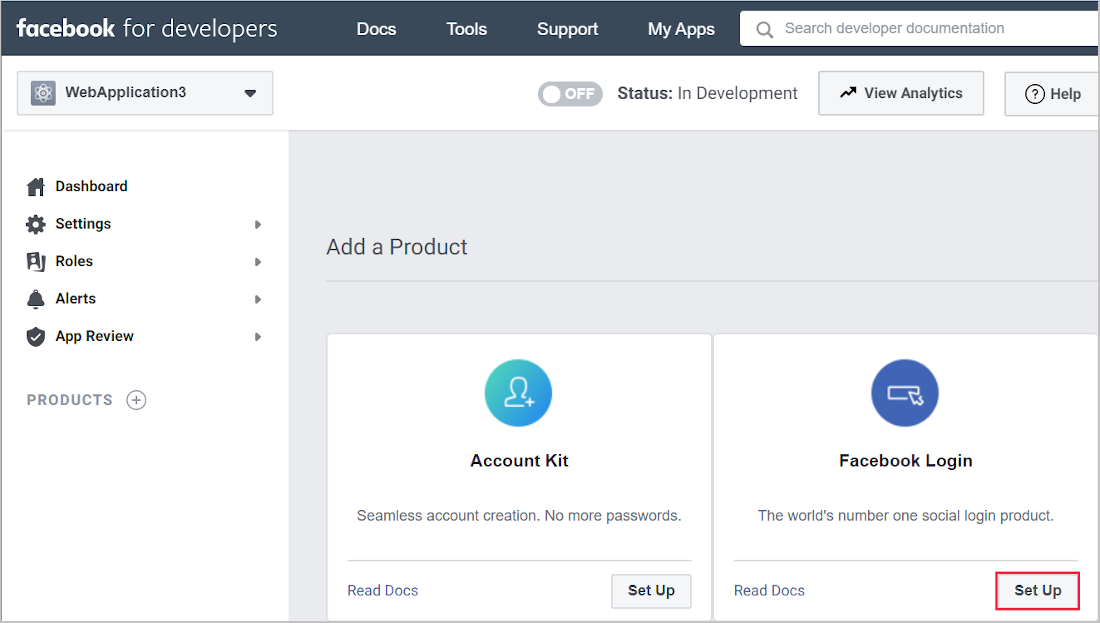
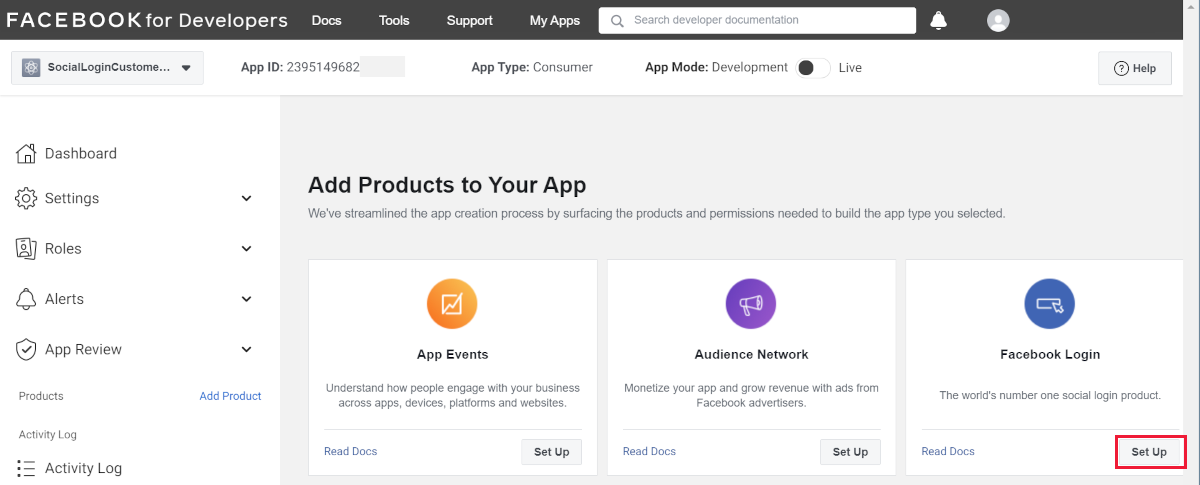
.NET 6.0 Update for Social Login Tutorials (#24242)
* Updated instructions and code snippets for social authentication in .net 6 (ms, facebook, google and twitter)

* Update microsoft-logins.md

Moniker issue is blocking the build, but a little strange since it looks OK to me.  Testing with a more explicit > 3.0 and < 6.0 range.

* Update microsoft-logins.md

Reverted back to original moniker that received a build warning.

* Update facebook-logins.md

Removed specific mention of 3.0

* Update google-logins.md

Removed specific mention of 3.0

* Update microsoft-logins.md

Removed specific mention of 3.0

* Update twitter-logins.md

Removed specific mention of 3.0

* .NET 6 update Social Login Tutorials

* Edit pass

diff --git a/aspnetcore/security/authentication/social/social-code/6.x/ProgramMS.cs b/aspnetcore/security/authentication/social/social-code/6.x/ProgramMS.cs
@@ -1,0 +1,9 @@
+var builder = WebApplication.CreateBuilder(args);
+var services = builder.Services;
+var configuration = builder.Configuration;
+
+services.AddAuthentication().AddMicrosoftAccount(microsoftOptions =>
+    {
+        microsoftOptions.ClientId = configuration["Authentication:Microsoft:ClientId"];
+        microsoftOptions.ClientSecret = configuration["Authentication:Microsoft:ClientSecret"];
+    });

diff --git a/aspnetcore/security/authentication/social/social-code/6.x/ProgramTwitter.cs b/aspnetcore/security/authentication/social/social-code/6.x/ProgramTwitter.cs
@@ -1,0 +1,9 @@
+var builder = WebApplication.CreateBuilder(args);
+var services = builder.Services;
+var configuration = builder.Configuration;
+
+services.AddAuthentication().AddTwitter(twitterOptions =>
+    {
+        twitterOptions.ConsumerKey = configuration["Authentication:Twitter:ConsumerAPIKey"];
+        twitterOptions.ConsumerSecret = configuration["Authentication:Twitter:ConsumerSecret"];
+    });

diff --git a/aspnetcore/security/authentication/social/social-code/6.x/ProgramFacebook.cs b/aspnetcore/security/authentication/social/social-code/6.x/ProgramFacebook.cs
@@ -1,0 +1,9 @@
+var builder = WebApplication.CreateBuilder(args);
+var services = builder.Services;
+var configuration = builder.Configuration;
+
+services.AddAuthentication().AddFacebook(facebookOptions =>
+    {
+        facebookOptions.AppId = configuration["Authentication:Facebook:AppId"];
+        facebookOptions.AppSecret = configuration["Authentication:Facebook:AppSecret"];
+    });

diff --git a/aspnetcore/security/authentication/social/social-code/6.x/ProgramGoogle.cs b/aspnetcore/security/authentication/social/social-code/6.x/ProgramGoogle.cs
@@ -1,0 +1,9 @@
+var builder = WebApplication.CreateBuilder(args);
+var services = builder.Services;
+var configuration = builder.Configuration;
+
+services.AddAuthentication().AddGoogle(googleOptions =>
+    {
+        googleOptions.ClientId = configuration["Authentication:Google:ClientId"];
+        googleOptions.ClientSecret = configuration["Authentication:Google:ClientSecret"];
+    });

diff --git a/aspnetcore/security/authentication/social/twitter-logins.md b/aspnetcore/security/authentication/social/twitter-logins.md
@@ -4,7 +4,7 @@ author: rick-anderson
 description: This tutorial demonstrates the integration of Twitter account user authentication into an existing ASP.NET Core app.
 ms.author: riande
 ms.custom: mvc
-ms.date: 03/19/2020
+ms.date: 12/08/2021
 monikerRange: '>= aspnetcore-3.0'
 no-loc: [Home, Privacy, Kestrel, appsettings.json, "ASP.NET Core Identity", cookie, Cookie, Blazor, "Blazor Server", "Blazor WebAssembly", "Identity", "Let's Encrypt", Razor, SignalR]
 uid: security/authentication/twitter-logins
@@ -13,26 +13,30 @@ uid: security/authentication/twitter-logins
 
 By [Valeriy Novytskyy](https://github.com/01binary) and [Rick Anderson](https://twitter.com/RickAndMSFT)
 
-This sample shows how to enable users to [sign in with their Twitter account](https://dev.twitter.com/web/sign-in/desktop-browser) using a sample ASP.NET Core 3.0 project created on the [previous page](xref:security/authentication/social/index).
+This sample shows how to enable users to [sign in with their Twitter account](https://dev.twitter.com/web/sign-in/desktop-browser) using a sample ASP.NET Core project created on the [previous page](xref:security/authentication/social/index).
 
 ## Create the app in Twitter
 
-* Add the [Microsoft.AspNetCore.Authentication.Twitter](https://www.nuget.org/packages/Microsoft.AspNetCore.Authentication.Twitter/3.0.0) NuGet package to the project.
+* Add the [Microsoft.AspNetCore.Authentication.Twitter](https://www.nuget.org/packages/Microsoft.AspNetCore.Authentication.Twitter) NuGet package to the project.
 
-* Navigate to [https://apps.twitter.com/](https://apps.twitter.com/) and sign in. If you don't already have a Twitter account, use the **[Sign up now](https://twitter.com/signup)** link to create one.
+* Navigate to [twitter developer portal Dashboard](https://developer.twitter.com/en/portal/dashboard) and sign in. If you don't already have a Twitter account, use the **[Sign up now](https://twitter.com/signup)** link to create one.
 
-* Select **Create an app**. Fill out the **App name**, **Application description** and public **Website** URI (this can be temporary until you register the domain name):
+* If you don't have a project, create one.
 
-* Check the box next to **Enable Sign in with Twitter**
+* Select **+ Add app**. Fill out the **App name** then record the generated API Key, API Key Secret and Bearer Token. These will be needed
+later.
 
-* Microsoft.AspNetCore.Identity requires users to have an email address by default. Go to the **Permissions** tab, click the **Edit** button and check the box next to **Request email address from users**.
+* In the **App Settings** page, select **Edit** in the **Authentication settings** section, then:
+  * Enable 3-legged OAuth
+  * Request email address from users
+  * Fill out the required fields and select **Save**
 
-* Enter your development URI with `/signin-twitter` appended into the **Callback URLs** field (for example: `https://webapp128.azurewebsites.net/signin-twitter`). The Twitter authentication scheme configured later in this sample will automatically handle requests at `/signin-twitter` route to implement the OAuth flow.
+  > [!NOTE]
+  > Microsoft.AspNetCore.Identity requires users to have an email address by default. For Callback URLs during development, use `https://localhost:{PORT}/signin-twitter`, where the `{PORT}` placeholder is the app's port.
 
   > [!NOTE]
   > The URI segment `/signin-twitter` is set as the default callback of the Twitter authentication provider. You can change the default callback URI while configuring the Twitter authentication middleware via the inherited [RemoteAuthenticationOptions.CallbackPath](/dotnet/api/microsoft.aspnetcore.authentication.remoteauthenticationoptions.callbackpath) property of the [TwitterOptions](/dotnet/api/microsoft.aspnetcore.authentication.twitter.twitteroptions) class.
 
-* Fill out the rest of the form and select **Create**. New application details are displayed:
 
 ## Store the Twitter consumer API key and secret
 
@@ -52,21 +56,32 @@ These tokens can be found on the **Keys and Access Tokens** tab after creating a
 
 ## Configure Twitter Authentication
 
-Add the Twitter service in the `ConfigureServices` method in *Startup.cs* file:
+::: moniker range="< aspnetcore-6.0"
+
+Add the Authentication service to the `Startup.ConfigureServices`:
 
 [!code-csharp[](~/security/authentication/social/social-code/3.x/StartupTwitter3x.cs?name=snippet&highlight=10-15)]
+
+::: moniker-end
+
+::: moniker range=">= aspnetcore-6.0"
+
+[!code-csharp[](~/security/authentication/social/social-code/6.x/ProgramTwitter.cs)]
+
+::: moniker-end
+
 
 [!INCLUDE [default settings configuration](includes/default-settings.md)]
 
 [!INCLUDE[](includes/chain-auth-providers.md)]
 
-See the [TwitterOptions](/dotnet/api/microsoft.aspnetcore.builder.twitteroptions) API reference for more information on configuration options supported by Twitter authentication. This can be used to request different information about the user.
+For more information on configuration options supported by Twitter authentication, see the [TwitterOptions](/dotnet/api/microsoft.aspnetcore.builder.twitteroptions) API reference. This can be used to request different information about the user.
 
 ## Sign in with Twitter
 
 Run the app and select **Log in**. An option to sign in with Twitter appears:
 
-Clicking on **Twitter** redirects to Twitter for authentication:
+Selecting **Twitter** redirects to Twitter for authentication:
 
 After entering your Twitter credentials, you are redirected back to the web site where you can set your email.
 
@@ -82,7 +97,7 @@ Rather in the twitter setup, you can provide an External sign-in homepage. The e
 
 ## Troubleshooting
 
-* **ASP.NET Core 2.x only:** If Identity isn't configured by calling `services.AddIdentity` in `ConfigureServices`, attempting to authenticate will result in *ArgumentException: The 'SignInScheme' option must be provided*. The project template used in this sample ensures that this is done.
+* **ASP.NET Core 2.x only:** If Identity isn't configured by calling `services.AddIdentity` in `ConfigureServices`, attempting to authenticate will result in *ArgumentException: The 'SignInScheme' option must be provided*. The project template used in this sample ensures Identity is configured.
 * If the site database has not been created by applying the initial migration, you will get *A database operation failed while processing the request* error. Tap **Apply Migrations** to create the database and refresh to continue past the error.
 
 ## Next steps

diff --git a/aspnetcore/security/authentication/social/facebook-logins.md b/aspnetcore/security/authentication/social/facebook-logins.md
@@ -4,7 +4,7 @@ author: rick-anderson
 description: Tutorial with code examples demonstrating the integration of Facebook account user authentication into an existing ASP.NET Core app.
 ms.author: riande
 ms.custom: "seoapril2019, mvc, seodec18"
-ms.date: 03/19/2020
+ms.date: 12/08/2021
 monikerRange: '>= aspnetcore-3.0'
 no-loc: [Home, Privacy, Kestrel, appsettings.json, "ASP.NET Core Identity", cookie, Cookie, Blazor, "Blazor Server", "Blazor WebAssembly", "Identity", "Let's Encrypt", Razor, SignalR]
 uid: security/authentication/facebook-logins
@@ -17,7 +17,7 @@ By [Valeriy Novytskyy](https://github.com/01binary) and [Rick Anderson](https://
 <!-- per @rick-anderson and scott addie, don't update images. Remove images and point the customer to the FB set up page. FB needs to maintain  instructions to get key and secret.
 -->
 
-This tutorial with code examples shows how to enable your users to sign in with their Facebook account using a sample ASP.NET Core 3.0 project created on the [previous page](xref:security/authentication/social/index). We start by creating a Facebook App ID by following the [official steps](https://developers.facebook.com).
+This tutorial with code examples shows how to enable your users to sign in with their Facebook account using a sample ASP.NET Core project created on the [previous page](xref:security/authentication/social/index). We start by creating a Facebook App ID by following the [official steps](https://developers.facebook.com).
 
 ## Create the app in Facebook
 
@@ -25,15 +25,16 @@ This tutorial with code examples shows how to enable your users to sign in with 
 
 * Navigate to the [Facebook Developers app](https://developers.facebook.com/apps/) page and sign in. If you don't already have a Facebook account, use the **Sign up for Facebook** link on the login page to create one.  Once you have a Facebook account, follow the instructions to register as a Facebook Developer.
 
-* From the **My Apps** menu select **Create App** to create a new App ID.
-
+* From the **My Apps** menu select **Create App**. The **Create an app** form appears.
    ![Facebook for developers portal open in Microsoft Edge](index/_static/FBMyApps.png)
 
-* Fill out the form and tap the **Create App ID** button.
+* Select an app type that best fits your project. For this project, select **Consumer**, and then **Next**. A new App ID is created.
+
+* Fill out the form and tap the **Create App** button.
 
   ![Create a New App ID form](index/_static/FBNewAppId.png)
 
-* On the new App card, select **Add a Product**.  On the **Facebook Login** card, click **Set Up** 
+* On the **Add Products to Your App** page, select **Set Up** on the **Facebook Login** card.
 
   ![Product Setup page](index/_static/FBProductSetup.png)
 
@@ -41,7 +42,7 @@ This tutorial with code examples shows how to enable your users to sign in with 
 
   ![Skip Quick Start](index/_static/FBSkipQuickStart.png)
 
-* You are presented with the **Client OAuth Settings** page:
+* The **Client OAuth Settings** page is presented:
 
   ![Client OAuth Settings page](index/_static/FBOAuthSetup.png)
 
@@ -50,13 +51,13 @@ This tutorial with code examples shows how to enable your users to sign in with 
 > [!NOTE]
 > The URI */signin-facebook* is set as the default callback of the Facebook authentication provider. You can change the default callback URI while configuring the Facebook authentication middleware via the inherited [RemoteAuthenticationOptions.CallbackPath](/dotnet/api/microsoft.aspnetcore.authentication.remoteauthenticationoptions.callbackpath) property of the [FacebookOptions](/dotnet/api/microsoft.aspnetcore.authentication.facebook.facebookoptions) class.
 
-* Click **Save Changes**.
+* Select **Save Changes**.
 
-* Click **Settings** > **Basic** link in the left navigation.
+* Select **Settings** > **Basic** link in the left navigation.
 
-  On this page, make a note of your `App ID` and your `App Secret`. You will add both into your ASP.NET Core application in the next section:
+* Make a note of your `App ID` and your `App Secret`. You will add both into your ASP.NET Core application in the next section:
 
-* When deploying the site you need to revisit the **Facebook Login** setup page and register a new public URI.
+* When deploying the site you need to revisit the **Facebook Login** setup page, and register a new public URI.
 
 ## Store the Facebook app ID and secret
 
@@ -74,7 +75,9 @@ Store sensitive settings such as the Facebook app ID and secret values with [Sec
 
 ## Configure Facebook Authentication
 
-Add the Facebook service in the `ConfigureServices` method in the *Startup.cs* file:
+::: moniker range="< aspnetcore-6.0"
+
+Add the Authentication service to the `Startup.ConfigureServices`:
 
 ```csharp
 services.AddAuthentication().AddFacebook(facebookOptions =>
@@ -83,6 +86,16 @@ services.AddAuthentication().AddFacebook(facebookOptions =>
     facebookOptions.AppSecret = Configuration["Authentication:Facebook:AppSecret"];
 });
 ```
+
+::: moniker-end
+
+::: moniker range=">= aspnetcore-6.0"
+
+Add the Authentication service to the `Program`:
+
+[!code-csharp[](~/security/authentication/social/social-code/6.x/ProgramFacebook.cs)]
+
+::: moniker-end
 
 [!INCLUDE [default settings configuration](includes/default-settings.md)]
 
@@ -106,7 +119,7 @@ The following code sets the `AccessDeniedPath` to `"/AccessDeniedPathInfo"`:
 
 [!code-csharp[](~/security/authentication/social/social-code/StartupAccessDeniedPath.cs?name=snippetFB)]
 
-We recommend the `AccessDeniedPath` page contain the following information:
+We recommend the `AccessDeniedPath` page contains the following information:
 
 *  Remote authentication was canceled.
 * This app requires authentication.
@@ -124,7 +137,7 @@ We recommend the `AccessDeniedPath` page contain the following information:
 
 [!INCLUDE[](includes/chain-auth-providers.md)]
 
-See the [FacebookOptions](/dotnet/api/microsoft.aspnetcore.builder.facebookoptions) API reference for more information on configuration options supported by Facebook authentication. Configuration options can be used to:
+ For more information on configuration options supported by Facebook authentication, see the [FacebookOptions](/dotnet/api/microsoft.aspnetcore.builder.facebookoptions) API reference. Configuration options can be used to:
 
 * Request different information about the user.
 * Add query string arguments to customize the login experience.

diff --git a/aspnetcore/security/authentication/social/google-logins.md b/aspnetcore/security/authentication/social/google-logins.md
@@ -12,17 +12,36 @@ uid: security/authentication/google-logins
 
 By [Valeriy Novytskyy](https://github.com/01binary) and [Rick Anderson](https://twitter.com/RickAndMSFT)
 
-This tutorial shows you how to enable users to sign in with their Google account using the ASP.NET Core 3.0 project created on the [previous page](xref:security/authentication/social/index).
+This tutorial shows you how to enable users to sign in with their Google account using the ASP.NET Core project created on the [previous page](xref:security/authentication/social/index).
 
 ## Create a Google API Console project and client ID
 
 * Add the [Microsoft.AspNetCore.Authentication.Google](https://www.nuget.org/packages/Microsoft.AspNetCore.Authentication.Google) NuGet package to the app.
+
 * Follow the guidance in [Integrating Google Sign-In into your web app](https://developers.google.com/identity/sign-in/web/sign-in) (Google documentation).
-* In the **Credentials** page of the [Google console](https://console.developers.google.com/apis/credentials), select **CREATE CREDENTIALS** > **OAuth client ID**.
-* In the **Application type** dialog, select **Web application**. Provide a **Name** for the app.
+
+* Go to [Google API & Services](https://console.cloud.google.com/apis).
+
+* A **Project** must exist first, you may have to create one. Just a name is required. Once a project is selected, you will enter the **Dashboard**.
+
+* In the **Oauth consent screen** of the **Dashboard**: 
+  * Select **User Type - External** and **CREATE**.
+  * In the **App information** dialog, Provide an **app name** for the app, **user support email**, and **developer contact information**.
+  * Step through the **Scopes** step.
+  * Step through the **Test users** step.
+  * Review the **OAuth consent screen** and go back to the app **Dashboard**.
+
+
+* In the **Credentials** tab of the application Dashboard, select **CREATE CREDENTIALS** > **OAuth client ID**.
+
+* Select **Application type** > **Web application**, choose a **name**.
+
 * In the **Authorized redirect URIs** section, select **ADD URI** to set the redirect URI. Example redirect URI: `https://localhost:{PORT}/signin-google`, where the `{PORT}` placeholder is the app's port.
+
 * Select the **CREATE** button.
+
 * Save the **Client ID** and **Client Secret** for use in the app's configuration.
+
 * When deploying the site, either:
   * Update the app's redirect URI in the **Google Console** to the app's deployed redirect URI.
   * Create a new Google API registration in the **Google Console** for the production app with its production redirect URI.
@@ -45,23 +64,35 @@ You can manage your API credentials and usage in the [API Console](https://conso
 
 ## Configure Google authentication
 
-Add the Google service to `Startup.ConfigureServices`:
+::: moniker range="< aspnetcore-6.0"
+
+Add the Authentication service to the `Startup.ConfigureServices`:
 
 [!code-csharp[](~/security/authentication/social/social-code/3.x/StartupGoogle3x.cs?highlight=11-19)]
+
+::: moniker-end
+
+::: moniker range=">= aspnetcore-6.0"
+
+Add the Authentication service to the `Program`:
+
+[!code-csharp[](~/security/authentication/social/social-code/6.x/ProgramGoogle.cs)]
+
+::: moniker-end
 
 [!INCLUDE [default settings configuration](includes/default-settings2-2.md)]
 
 ## Sign in with Google
 
-* Run the app and click **Log in**. An option to sign in with Google appears.
-* Click the **Google** button, which redirects to Google for authentication.
+* Run the app and select **Log in**. An option to sign in with Google appears.
+* Select the **Google** button, which redirects to Google for authentication.
 * After entering your Google credentials, you are redirected back to the web site.
 
 [!INCLUDE[Forward request information when behind a proxy or load balancer section](includes/forwarded-headers-middleware.md)]
 
 [!INCLUDE[](includes/chain-auth-providers.md)]
 
-See the <xref:Microsoft.AspNetCore.Authentication.Google.GoogleOptions> API reference for more information on configuration options supported by Google authentication. This can be used to request different information about the user.
+For more information on configuration options supported by Google authentication, see the <xref:Microsoft.AspNetCore.Authentication.Google.GoogleOptions> API reference . This can be used to request different information about the user.
 
 ## Change the default callback URI
 
@@ -70,7 +101,7 @@ The URI segment `/signin-google` is set as the default callback of the Google au
 ## Troubleshooting
 
 * If the sign-in doesn't work and you aren't getting any errors, switch to development mode to make the issue easier to debug.
-* If Identity isn't configured by calling `services.AddIdentity` in `ConfigureServices`, attempting to authenticate results in *ArgumentException: The 'SignInScheme' option must be provided*. The project template used in this tutorial ensures that this is done.
+* If Identity isn't configured by calling `services.AddIdentity` in `ConfigureServices`, attempting to authenticate results in *ArgumentException: The 'SignInScheme' option must be provided*. The project template used in this tutorial ensures Identity is configured.
 * If the site database has not been created by applying the initial migration, you get *A database operation failed while processing the request* error. Select **Apply Migrations** to create the database, and refresh the page to continue past the error.
 
 ## Next steps

diff --git a/aspnetcore/security/authentication/social/microsoft-logins.md b/aspnetcore/security/authentication/social/microsoft-logins.md
@@ -4,7 +4,7 @@ author: rick-anderson
 description: This sample demonstrates the integration of Microsoft account user authentication into an existing ASP.NET Core app.
 ms.author: riande
 ms.custom: mvc
-ms.date: 03/19/2020
+ms.date: 12/08/2021
 monikerRange: '>= aspnetcore-3.1'
 no-loc: [Home, Privacy, Kestrel, appsettings.json, "ASP.NET Core Identity", cookie, Cookie, Blazor, "Blazor Server", "Blazor WebAssembly", "Identity", "Let's Encrypt", Razor, SignalR]
 uid: security/authentication/microsoft-logins
@@ -15,7 +15,7 @@ By [Valeriy Novytskyy](https://github.com/01binary) and [Rick Anderson](https://
 
 :::moniker range=">= aspnetcore-6.0"
 
-This sample shows you how to enable users to sign in with their work, school, or personal Microsoft account using the ASP.NET Core 3.0 project created on the [previous page](xref:security/authentication/social/index).
+This sample shows you how to enable users to sign in with their work, school, or personal Microsoft account using the ASP.NET Core 6.0 project created on the [previous page](xref:security/authentication/social/index).
 
 ## Create the app in Microsoft Developer Portal
 
@@ -58,9 +58,9 @@ Store sensitive settings such as the Microsoft **Application (client) ID** found
 
 ## Configure Microsoft Account Authentication
 
-Add the Microsoft Account service to the `Startup.ConfigureServices`:
+Add the Authentication service to the `Program`:
 
-:::code language="csharp" source="~/security/authentication/social/social-code/3.x/StartupMS3x.cs" id="snippet" highlight="10-14":::
+[!code-csharp[](~/security/authentication/social/social-code/6.x/ProgramMS.cs)]
 
 [!INCLUDE [default settings configuration](includes/default-settings.md)]
 
@@ -68,9 +68,9 @@ For more information about configuration options supported by Microsoft Account 
 
 ## Sign in with Microsoft Account
 
-Run the app and click **Log in**. An option to sign in with Microsoft appears. When you click on Microsoft, you are redirected to Microsoft for authentication. After signing in with your Microsoft Account, you will be prompted to let the app access your info:
-
-Tap **Yes** and you will be redirected back to the web site where you can set your email.
+* Run the app and select **Log in**. An option to sign in with Microsoft appears.
+* Select to sign in with Microsoft. You are redirected to Microsoft for authentication. After signing in with your Microsoft Account, you will be prompted to let the app access your info:
+* Select **Yes**. You are redirected back to the web site where you can set your email.
 
 You are now logged in using your Microsoft credentials:
 
@@ -83,7 +83,9 @@ You are now logged in using your Microsoft credentials:
 * If the Microsoft Account provider redirects you to a sign in error page, note the error title and description query string parameters directly following the `#` (hashtag) in the Uri.
 
   Although the error message seems to indicate a problem with Microsoft authentication, the most common cause is your application Uri not matching any of the **Redirect URIs** specified for the **Web** platform.
+
 * If Identity isn't configured by calling `services.AddIdentity` in `ConfigureServices`, attempting to authenticate will result in *ArgumentException: The 'SignInScheme' option must be provided*. The project template used in this sample ensures that this is done.
+
 * If the site database has not been created by applying the initial migration, you will get *A database operation failed while processing the request* error. Tap **Apply Migrations** to create the database and refresh to continue past the error.
 
 ## Next steps
@@ -149,7 +151,7 @@ For more information about configuration options supported by Microsoft Account 
 
 ## Sign in with Microsoft Account
 
-Run the app and click **Log in**. An option to sign in with Microsoft appears. When you click on Microsoft, you are redirected to Microsoft for authentication. After signing in with your Microsoft Account, you will be prompted to let the app access your info:
+Run the app and select **Log in**. An option to sign in with Microsoft appears. When you select on Microsoft, you are redirected to Microsoft for authentication. After signing in with your Microsoft Account, you will be prompted to let the app access your info:
 
 Tap **Yes** and you will be redirected back to the web site where you can set your email.
 
